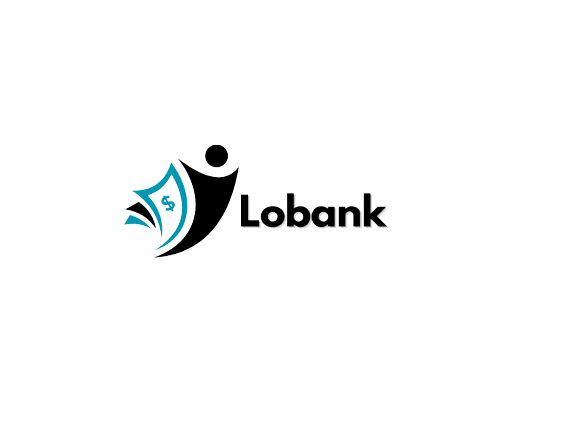
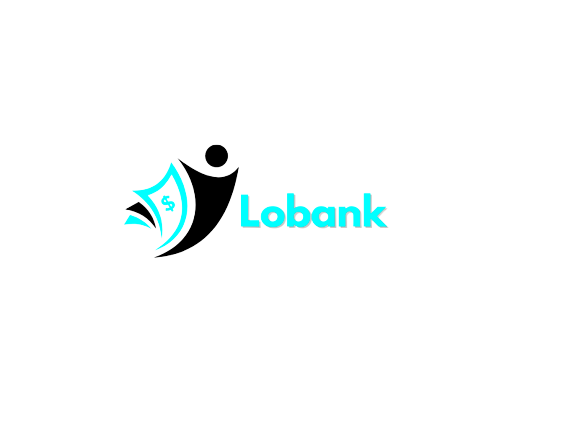
atualizando

Changed region(s): [[0.4055, 0.4503, 0.6863, 0.5404], [0.2184, 0.3603, 0.3432, 0.5704]]

diff --git a/AppBancoDigital/AppBancoDigital/View/Login.xaml b/AppBancoDigital/AppBancoDigital/View/Login.xaml
@@ -1,14 +1,14 @@
 <?xml version="1.0" encoding="utf-8" ?>
 <ContentPage xmlns="http://xamarin.com/schemas/2014/forms"
              xmlns:x="http://schemas.microsoft.com/winfx/2009/xaml"
+             xmlns:control="clr-namespace:Xamarin.Forms.MaskedEntry;assembly=Xamarin.Forms.MaskedEntry"
              x:Class="AppBancoDigital.View.Login"
-             xmlns:control="clr-namespace:Xamarin.Forms.MaskedEntry;assembly=Xamarin.Forms.MaskedEntry" xmlns:local="clr-namespace:AppBancoDigital"
              Title="Login">
     <ContentPage.Background>
         <LinearGradientBrush>
-            <GradientStop Color="DimGray"
-                          Offset="0.1"/>
-            <GradientStop Color="DarkCyan"
+            <GradientStop Color="DarkBlue"
+                          Offset="0.001"/>
+            <GradientStop Color="#00FFFF"
                           Offset="2"/>
         </LinearGradientBrush>
     </ContentPage.Background>
@@ -18,7 +18,7 @@
         <StackLayout VerticalOptions="Center">
 
             <Image x:Name="logo" Scale="2"/>
-            <Label Text="LOGIN" FontSize="Title" HorizontalOptions="Center" TextColor="Black"/>
+            <Label Text="LOGIN" FontSize="Title" HorizontalOptions="Center" TextColor="#00FFFF"/>
             <Label Text=""/>
             <Label Text=""/>
 
@@ -26,13 +26,14 @@
                    x:Name="form_login"
                    VerticalOptions="CenterAndExpand"
                    BackgroundColor="Transparent"
-                   BorderColor="#000123"
+                   BorderColor="White"
                    Margin="20">
                 <StackLayout>
-                    <Label Text="CPF" TextColor="Black"/>
-                    <control:MaskedEntry x:Name="txt_cpf" Keyboard="Numeric" FontAttributes="Bold" Mask="XXX.XXX.XXX-XX"/>
-                    <Label Text="Senha" TextColor="Black"/>
+                    <Label Text="CPF" TextColor="White"/>
+                    <control:MaskedEntry x:Name="txt_cpf" Keyboard="Numeric" TextColor="White" FontAttributes="Bold" Mask="XXX.XXX.XXX-XX"/>
+                    <Label Text="Senha" TextColor="White"/>
                     <Entry x:Name="txt_senha"
+                           TextColor="White"
                            Keyboard="Default"
                            IsPassword="True"
                            ReturnType="Done"/>
@@ -43,20 +44,21 @@
                     TextTransform="None" HorizontalOptions="Center"
                     Text="Entrar" CornerRadius="20"
                     BorderWidth="1" BorderColor="Black"
-                    BackgroundColor="#00CDCD" Clicked="btn_login_Clicked"/>
+                    BackgroundColor="#00FFFF" Clicked="btn_login_Clicked"/>
 
-            <Label Text=""/>
+
             <Button x:Name="btn_CriarConta" Text="Não tem uma conta? Criar uma conta."
                     FontAttributes="Italic" TextTransform="None"
                     BackgroundColor="Transparent" TextColor="#fff"
                     CornerRadius="20" HorizontalOptions="Center"
                     Clicked="btn_CriarConta_Clicked"/>
             <Label Text=""/>
+            <Label Text=""/>
             <Button x:Name="btn_voltar" TextColor="Black"
                     TextTransform="None" HorizontalOptions="StartAndExpand"
                     Text="Voltar" CornerRadius="20"
                     BorderWidth="1" BorderColor="Black" Margin="20"
-                    BackgroundColor="#00CDCD" Clicked="btn_voltar_Clicked"/>
+                    BackgroundColor="#00FFFF" Clicked="btn_voltar_Clicked"/>
             
 
         </StackLayout>

diff --git a/AppBancoDigital/AppBancoDigital/View/Cadastro.xaml b/AppBancoDigital/AppBancoDigital/View/Cadastro.xaml
@@ -1,12 +1,62 @@
 <?xml version="1.0" encoding="utf-8" ?>
 <ContentPage xmlns="http://xamarin.com/schemas/2014/forms"
              xmlns:x="http://schemas.microsoft.com/winfx/2009/xaml"
-             x:Class="AppBancoDigital.View.Cadastro">
+             x:Class="AppBancoDigital.View.Cadastro"
+             xmlns:control="clr-namespace:Xamarin.Forms.MaskedEntry;assembly=Xamarin.Forms.MaskedEntry" xmlns:local="clr-namespace:AppBancoDigital">
+
+    <ContentPage.Background>
+        <LinearGradientBrush>
+            <GradientStop Color="DarkBlue"
+                          Offset="0.001"/>
+            <GradientStop Color="#00FFFF"
+                          Offset="2"/>
+        </LinearGradientBrush>
+    </ContentPage.Background>
     <ContentPage.Content>
-        <StackLayout>
-            <Label Text="Welcome to Xamarin.Forms!"
-                VerticalOptions="CenterAndExpand" 
-                HorizontalOptions="CenterAndExpand" />
+
+        <StackLayout VerticalOptions="Center">
+
+            <Image x:Name="logo" Scale="2"/>
+            <Label Text="CADASTRO" FontSize="Title" HorizontalOptions="Center" TextColor="#00FFFF"/>
+            <Label Text=""/>
+            <Label Text=""/>
+
+            <Frame CornerRadius="10"
+                   x:Name="form_cadastro"
+                   VerticalOptions="CenterAndExpand"
+                   BackgroundColor="Transparent"
+                   BorderColor="White"
+                   Margin="20">
+                <StackLayout>
+                    <Label Text="Nome:" TextColor="White"/>
+                    <Entry x:Name="txt_nome"
+                           Keyboard="Default"
+                           TextColor="White"/>
+                    <Label Text="CPF:" TextColor="White"/>
+                    <control:MaskedEntry x:Name="txt_cpf" TextColor="White" Keyboard="Numeric" FontAttributes="Bold" Mask="XXX.XXX.XXX-XX"/>
+                    <Label Text="Senha:" TextColor="White"/>
+                    <Entry x:Name="txt_senha"
+                           Keyboard="Default"
+                           IsPassword="True"
+                           ReturnType="Done"
+                           TextColor="White"/>
+                </StackLayout>
+            </Frame>
+
+            <Button x:Name="btn_cadastro" TextColor="Black"
+                    TextTransform="None" HorizontalOptions="Center"
+                    Text="Cadastrar" CornerRadius="20"
+                    BorderWidth="1" BorderColor="Black"
+                    BackgroundColor="#00FFFF" Clicked="btn_cadastro_Clicked"/>
+
+            <Label Text=""/>
+            <Button x:Name="btn_voltar" TextColor="Black"
+                    TextTransform="None" HorizontalOptions="StartAndExpand"
+                    Text="Voltar" CornerRadius="20"
+                    BorderWidth="1" BorderColor="Black" Margin="20"
+                    BackgroundColor="#00FFFF" Clicked="btn_voltar_Clicked"/>
         </StackLayout>
+
+
     </ContentPage.Content>
 </ContentPage>

diff --git a/AppBancoDigital/AppBancoDigital/View/Menu.xaml b/AppBancoDigital/AppBancoDigital/View/Menu.xaml
@@ -5,9 +5,9 @@
              Title="Menu">
     <ContentPage.Background>
         <LinearGradientBrush>
-            <GradientStop Color="DimGray"
-                          Offset="0.1"/>
-            <GradientStop Color="DarkCyan"
+            <GradientStop Color="DarkBlue"
+                          Offset="0.001"/>
+            <GradientStop Color="#00FFFF"
                           Offset="2"/>
         </LinearGradientBrush>
     </ContentPage.Background>
@@ -20,9 +20,9 @@
 
             <Button x:Name="btn_pag_login" TextColor="Black"
                     TextTransform="None" HorizontalOptions="Center"
-                    Text="LOGIN" CornerRadius="20"
+                    Text="Iníciar" CornerRadius="20"
                     BorderWidth="1" BorderColor="Black"
-                    BackgroundColor="#00CDCD" Clicked="btn_pag_login_Clicked"/>
+                    BackgroundColor="#00FFFF" Clicked="btn_pag_login_Clicked"/>
         </StackLayout>
     </ContentPage.Content>
 </ContentPage>

diff --git a/AppBancoDigital/AppBancoDigital/View/Cadastro.xaml.cs b/AppBancoDigital/AppBancoDigital/View/Cadastro.xaml.cs
@@ -15,6 +15,32 @@ namespace AppBancoDigital.View
         public Cadastro()
         {
             InitializeComponent();
+            logo.Source = ImageSource.FromResource("AppBancoDigital.Imagens.Lobank1.png");
+            NavigationPage.SetHasNavigationBar(this, false);
+        }
+
+        private async void btn_cadastro_Clicked(object sender, EventArgs e)
+        {
+            try
+            {
+                App.Current.MainPage = new NavigationPage(new View.Login());
+            }
+            catch (Exception ex)
+            {
+                await DisplayAlert("Ops, ocorreu um erro", ex.Message, "OK");
+            }
+        }
+
+        private async void btn_voltar_Clicked(object sender, EventArgs e)
+        {
+            try
+            {
+                App.Current.MainPage = new NavigationPage(new View.Login());
+            }
+            catch (Exception ex)
+            {
+                await DisplayAlert("Ops, ocorreu um erro", ex.Message, "OK");
+            }
         }
     }
 }
